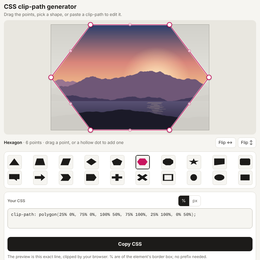
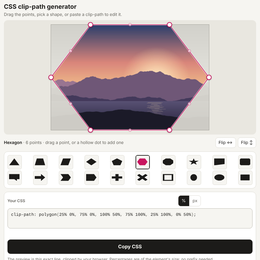
CSS clip-path Generator: last round - Add ) and copy, the frame of a pasted px polygon as the element size
The final critic and tester: a missing ) now makes the main button "Add ) and
copy" (one tap, not four lines of reading); a px polygon from a design tool
offers its own frame as the element size, since % are only right for the right
element; tidying the line on blur waits for the tap that caused it to finish,
so the box changing height can no longer move a button out from under a
finger; unit conversions keep 0.1% so 40 of 320 stays 12.5%; the trust line
says "of the element's size" instead of "border box"; dark Copy is light again.

Claude-Session: https://claude.ai/code/session_01PtGPtXExKBTHmTXU2aXBcX

Changed region(s): [[0.0308, 0.8923, 0.9846, 1.0]]

diff --git a/tools/css_clip_path_generator.html b/tools/css_clip_path_generator.html
@@ -8,8 +8,7 @@
 <meta name="description" content="Make a CSS clip-path and copy the code: drag polygon points, add one on any edge, circle, ellipse and rounded inset, % or px, and paste any clip-path to edit it. The preview is your exact CSS.">
 <style>
 :root{--bg:#f6f5f1;--card:#fff;--ink:#1c1b19;--mute:#66645e;--line:#dddbd3;--grid:rgba(40,40,30,.13);--cut:#c8155f;--cut-soft:rgba(200,21,95,.14);--warn:#c2410c;--ok:#1d7a46;--stage:#e9e7e0;--edge:#bdbab0}
-@media (prefers-color-scheme:dark){:root:not([data-theme=light]){--bg:#141413;--card:#1d1d1b;--ink:#ecebe6;--mute:#a3a19a;--line:#35342f;--grid:rgba(255,255,240,.12);--cut:#ff5c9d;--cut-soft:rgba(255,92,157,.18);--warn:#ff9a62;--ok:#6fd49a;--stage:#232320;--edge:#55534d}
-:root:not([data-theme=light]) #copy:not(:disabled):not(.done){background:#3a3935;color:var(--ink);box-shadow:inset 0 0 0 1px #55534d}}
+@media (prefers-color-scheme:dark){:root:not([data-theme=light]){--bg:#141413;--card:#1d1d1b;--ink:#ecebe6;--mute:#a3a19a;--line:#35342f;--grid:rgba(255,255,240,.12);--cut:#ff5c9d;--cut-soft:rgba(255,92,157,.18);--warn:#ff9a62;--ok:#6fd49a;--stage:#232320;--edge:#55534d}}
 *{box-sizing:border-box}
 html,body{margin:0;background:var(--bg);color:var(--ink)}
 body{font:15px/1.45 system-ui,-apple-system,"Segoe UI",Roboto,sans-serif;-webkit-text-size-adjust:100%}
@@ -99,12 +98,12 @@ textarea.masked{color:transparent;caret-color:var(--ink)}
 pre#hl{position:absolute;inset:0;margin:0;padding:9px 10px;font-size:13.5px;line-height:1.5;white-space:pre-wrap;word-break:normal;overflow-wrap:break-word;pointer-events:none;overflow:hidden;border:1px solid transparent;display:none}
 textarea.masked+pre#hl{display:block}
 #hl{color:var(--mute)}
-#hl .n,#hl .pr,#hl .f{color:var(--ink)}
+#hl .n,#hl .pr,#hl .f,#hl .k{color:var(--ink)}
 #hl .n{white-space:nowrap}
 #hl .hot{background:var(--cut-soft);color:var(--cut);border-radius:3px;box-shadow:0 0 0 2px var(--cut-soft)}
 #hl .was{animation:was .9s ease-out}
 @keyframes was{from{background:var(--cut-soft)}to{background:transparent}}
-#msg{min-height:20px;font-size:13px;margin-top:6px;line-height:1.4}
+#msg{min-height:20px;margin-bottom:8px;font-size:13px;margin-top:6px;line-height:1.4}
 #msg.err{color:var(--warn)}
 #msg.note{color:var(--mute)}
 .copyrow{display:flex;gap:8px;align-items:center}
@@ -189,7 +188,7 @@ footer a{color:inherit}
         </div>
         <div id="msg" role="status" aria-live="polite"></div>
         <div class="copyrow"><button id="copy" type="button">Copy CSS</button></div>
-        <p class="trust" id="trust">The preview is this exact line, clipped by your browser. % are of the element's border box; no prefix needed.</p>
+        <p class="trust" id="trust">The preview is this exact line, clipped by your browser. Percentages are of the element's size; no prefix needed.</p>
       </div>
       <details class="card" id="more"><summary><span>Element size, snap, preview</span> <span id="sum" class="num"></span></summary><div class="opts">
         <span>Snap to</span><span class="seg" role="group" aria-label="Snap step" id="steps"><button type="button" data-step="1" aria-pressed="true">1</button><button type="button" data-step="0.1" aria-pressed="false">0.1</button></span>
@@ -686,7 +685,7 @@ const MAX_HANDLES = 300, MAX_MIDS = 150, MAX_HL = 20000;
 const DEFAULT = 'clip-path: polygon(25% 0%, 75% 0%, 100% 50%, 75% 100%, 25% 100%, 0% 50%);';
 const ASPECTS = [['1:1', 1], ['4:3', 4 / 3], ['3:2', 3 / 2], ['16:9', 16 / 9]];
 
-const TRUST = "The preview is this exact line, clipped by your browser. % are of the element's border box; no prefix needed.";
+const TRUST = "The preview is this exact line, clipped by your browser. Percentages are of the element's size; no prefix needed.";
 const TRUST_PX = "The preview is this exact line, clipped by your browser. px are from the element's top-left corner; no prefix needed.";
 const S = {model: null, text: '', W: 600, H: 400, step: 1, fill: 'photo', sel: null, hot: null, stale: false, canon: true, k: 1};
 let imageURL = null, photoURL = null;
@@ -779,9 +778,9 @@ function draw() {
   drawCode();
   syncOpts();
   syncSel();
-  if (!copyBtn.classList.contains('done')) copyBtn.textContent = S.stale ? 'Fix the CSS to copy' : 'Copy CSS';
-  copyBtn.disabled = S.stale;
-  $('trust').textContent = S.stale ? (S.draft ? 'Tap Add ) to keep this shape, then copy.' : 'Fix the CSS above to copy it; the preview keeps the last shape that worked.') : S.model.unit === 'px' ? TRUST_PX : TRUST;
+  if (!copyBtn.classList.contains('done')) copyBtn.textContent = S.draft ? 'Add ) and copy' : S.stale ? 'Fix the CSS to copy' : 'Copy CSS';
+  copyBtn.disabled = S.stale && !S.draft;
+  $('trust').textContent = S.stale ? (S.draft ? 'The preview shows the line with the ) added. Copy gives just the clip-path line.' : 'Fix the CSS above to copy it.') : S.model.unit === 'px' ? TRUST_PX : TRUST;
   autosize();
 }
 function autosize() {
@@ -857,7 +856,7 @@ function presetName() { const cur = CP.format(S.model), i = presetVals.indexOf(c
 function syncSel() {
   const m = S.model, n = m.type === 'polygon' ? m.pts.length : 0;
   if (n > MAX_HANDLES) S.sel = null;
-  let html = S.stale ? (S.draft ? 'Previewing the line with the missing ) added.' : 'Showing the last shape that worked; the CSS has an error.') : describe(S.sel);
+  let html = S.stale ? (S.draft ? '&nbsp;' : 'Showing the last shape that worked; the CSS has an error.') : describe(S.sel);
   if (!html) {
     if (n > MAX_HANDLES) html = `${n} points: too many to drag here, edit them as text.`;
     else if (m.type === 'polygon') html = `${presetName() ? '<b>' + presetName() + '</b> · ' : ''}${n} points · drag a point, or a hollow dot to add one`;
@@ -879,6 +878,16 @@ function setModel(m, {push = true, say = ''} = {}) {
   if (push) pushHist();
   if (say) announce(say);
 }
+// A px polygon from a design tool spans 0..its frame: offer that frame as the element size.
+function offerSize(m) {
+  if (m.type !== 'polygon' || m.unit !== 'px' || S.canon) return;
+  const xs = m.pts.map(p => p[0]), ys = m.pts.map(p => p[1]);
+  const w = Math.round(Math.max(...xs)), h = Math.round(Math.max(...ys));
+  if (Math.min(...xs) !== 0 || Math.min(...ys) !== 0 || w < 10 || h < 10 || w > 4000 || h > 4000 || (w === S.W && h === S.H)) return;
+  const b = document.createElement('button'); b.type = 'button'; b.className = 'link'; b.textContent = `Use ${w} × ${h} as the element size`;
+  b.addEventListener('click', () => { setBox(w, h, false); setMsg('', ''); announce(`Element size ${w} by ${h}`); });
+  msg.append(msg.textContent ? ' ' : '', b);
+}
 function setMsg(text, kind) { msg.textContent = text; msg.className = kind; }
 function fromText(fromHistory) {
   const r = CP.parse(code.value, S.W, S.H);
@@ -887,6 +896,7 @@ function fromText(fromHistory) {
     S.canon = code.value === CP.declaration(r.model);
     code.classList.remove('bad');
     setMsg(r.note, r.note ? 'note' : '');
+    offerSize(r.model);
     if (S.sel && !CP.handles(S.model, S.W, S.H).some(h => h.key === S.sel)) S.sel = null;
   } else {
     S.stale = true; S.canon = false; S.draft = false;
@@ -921,10 +931,20 @@ code.addEventListener('paste', e => {
   code.value = t; code.setSelectionRange(t.length, t.length);
   fromText(); flushText(); pushHist(); announce('Pasted clip-path');
 });
+// Tidy a valid paste into the canonical line once the person is done with the field - after the tap that took
+// focus away has finished, so the line changing length cannot move a button out from under that tap.
+let tidyT = 0;
+function tidy() {
+  if (document.activeElement === code || S.stale || S.canon) return;
+  const r = CP.parse(code.value, S.W, S.H);
+  if (r.ok) { const kept = [...msg.childNodes], cls = msg.className; setModel(r.model, {push: true}); msg.replaceChildren(...kept); msg.className = cls; }
+}
 code.addEventListener('blur', () => {
   flushText();
-  // tidy a valid paste into the canonical line once the person is done with the field
-  if (!S.stale && !S.canon) { const r = CP.parse(code.value, S.W, S.H); if (r.ok) { const note = r.note; setModel(r.model, {push: true}); if (note) setMsg(note, 'note'); } }
+  clearTimeout(tidyT);
+  const later = () => { removeEventListener('pointerup', later, true); clearTimeout(tidyT); tidyT = setTimeout(tidy, 60); };
+  addEventListener('pointerup', later, true);
+  tidyT = setTimeout(later, 400);
   drawCode();
 });
 code.addEventListener('scroll', () => { hl.scrollTop = code.scrollTop; });
@@ -1058,7 +1078,8 @@ function focusKey(k) { const el = handleEls.find(h => h.dataset.key === k); if (
 $('units').addEventListener('click', e => {
   const b = e.target.closest('button'); if (!b || !S.model || S.stale) return;
   if (b.dataset.unit === S.model.unit) return;
-  setModel(CP.snapAll(CP.convert(S.model, b.dataset.unit, S.W, S.H), S.step), {say: `Units: ${b.dataset.unit}`});
+  // a conversion keeps a tenth of a percent (or the px step): exact to well under a pixel, without float noise
+  setModel(CP.snapAll(CP.convert(S.model, b.dataset.unit, S.W, S.H), b.dataset.unit === '%' ? 0.1 : S.step), {say: `Units: ${b.dataset.unit}`});
   setMsg(`Converted for a ${S.W} × ${S.H} px element.`, "note");
 });
 $('steps').addEventListener('click', e => { const b = e.target.closest('button'); if (!b) return; S.step = +b.dataset.step; syncOpts(); save(); });
@@ -1086,13 +1107,13 @@ function parseSize(s) {
   if (!/^\d+(\.\d+)?$/.test(t)) return NaN;
   const v = Math.round(+t); return v >= 10 && v <= 4000 ? v : NaN;
 }
-function setBox(W, H) {
+function setBox(W, H, follow = true) {
   if (W === S.W && H === S.H) return;
   const W0 = S.W, H0 = S.H;
   S.W = W; S.H = H; if (document.activeElement !== $('bw')) $('bw').value = W; if (document.activeElement !== $('bh')) $('bh').value = H;
   $('bw').classList.remove('bad'); $('bh').classList.remove('bad');
   fit();
-  if (!S.stale && S.model.unit === 'px') setModel(CP.snapAll(CP.rescale(S.model, W0, H0, W, H), S.step), {push: false});
+  if (follow && !S.stale && S.model.unit === 'px') setModel(CP.snapAll(CP.rescale(S.model, W0, H0, W, H), S.step), {push: false});
   save(); pushHist();
 }
 for (const id of ['bw', 'bh']) {
@@ -1129,6 +1150,7 @@ view.addEventListener('drop', e => { e.preventDefault(); view.classList.remove('
 // ---------- copy ----------
 let copyT = 0;
 copyBtn.addEventListener('click', async () => {
+  if (S.draft && S.stale) { code.value = CP.closeParen(code.value); fromText(); pushHist(); }
   if (S.stale) return;
   const text = CP.declaration(S.model);
   if (code.value !== text) { const keep = msg.className === 'note' ? msg.textContent : ''; setModel(S.model, {push: true}); if (keep) setMsg(keep, 'note'); }

diff --git a/test/README.md b/test/README.md
@@ -2621,7 +2621,7 @@ numbers are worked by hand from CSS Shapes 1/2, CSS Values 4 `<position>` and CS
 | `presets` | every preset parses, is written canonically, stays in the box and does not cross itself |
 | `huge` | 20,000 points parse and write in well under half a second; half a megabyte of junk fails fast with a short message |
 | `fuzz` | 4,000 random strings: never a throw, anything accepted writes back stably and draws without NaN |
-| `browser` | Chromium clips a box with every preset and 18 awkward values and a canvas fills the page's outline: they must agree to 4 pixels (they agree exactly). Then the real page at desktop and phone size: worked example and Copy without scrolling, typing updates the preview, an error keeps the text and the last good shape, unfinished text survives a reload, preset, drag, add by dragging a midpoint, undo/redo, arrow keys, Delete, units, a decimal-comma width, a px circle staying centred when the element becomes 120 × 120, Add ), flip, 5,000 points shown as text only, no console errors, no request leaving the page |
+| `browser` | Chromium clips a box with every preset and 18 awkward values and a canvas fills the page's outline: they must agree to 4 pixels (they agree exactly). Then the real page at desktop and phone size: worked example and Copy without scrolling, typing updates the preview, an error keeps the text and the last good shape, unfinished text survives a reload, preset, drag, add by dragging a midpoint, undo/redo, arrow keys, Delete, units, a decimal-comma width, a px circle staying centred when the element becomes 120 × 120 (and the height field not moving while the width is typed), 120x120 in one field, a paste mid-line replacing the box, a px polygon from a design tool offering its frame as the element size, a missing ) previewing the fixed line and offering “Add ) and copy”, Add ), flip, 5,000 points shown as text only, no console errors, no request leaving the page |
 
 The `round` percentage basis was found by the `browser` suite: the first core resolved it against the inset rectangle,
 as a reading of the spec suggests, and differed from Chromium by 6,713 pixels.
